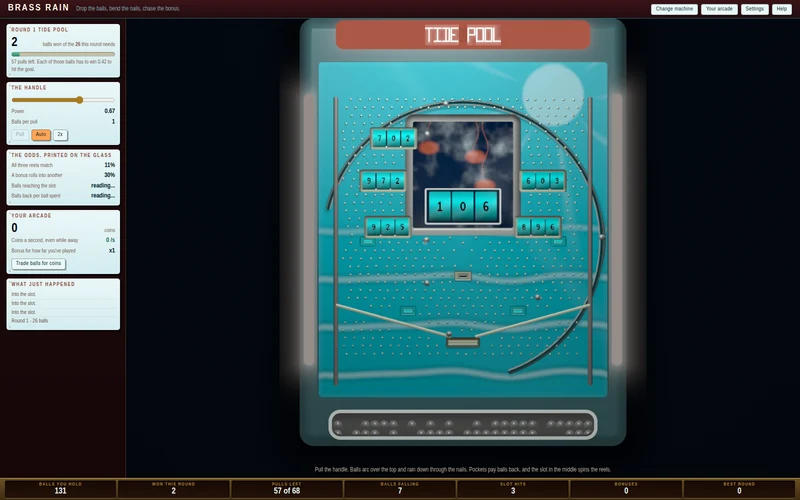
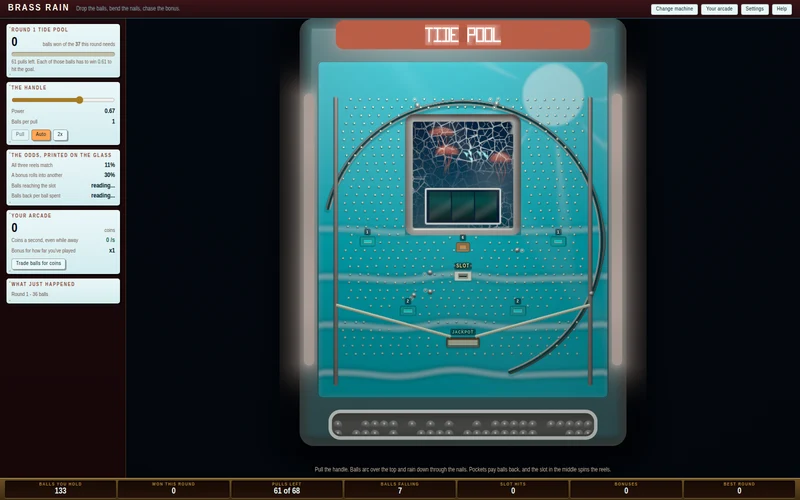
Brass Rain build 18: the row names what each machine sends; a fresh tile

diff --git a/brass-rain/src/ui.js b/brass-rain/src/ui.js
@@ -15,13 +15,13 @@
 // same fit, so a nail is exactly where it looks like it is.
 // ---------------------------------------------------------------------------
 
-import { createGame, VIEW_MACHINE, VIEW_BENCH, VIEW_FLOOR } from './game.js?v=17';
-import { createScene } from './render/scene.js?v=17';
-import { fitBoard, pixelToBoard } from './render/layout.js?v=17';
-import { num, count, duration, mult, pct, fill } from './format.js?v=17';
-import { BULK_STEPS, bulkLabel } from './economy.js?v=17';
-import { nailPos } from './board.js?v=17';
-import { sketchCabinet } from './cabinets.js?v=17';
+import { createGame, VIEW_MACHINE, VIEW_BENCH, VIEW_FLOOR } from './game.js?v=18';
+import { createScene } from './render/scene.js?v=18';
+import { fitBoard, pixelToBoard } from './render/layout.js?v=18';
+import { num, count, duration, mult, pct, fill } from './format.js?v=18';
+import { BULK_STEPS, bulkLabel } from './economy.js?v=18';
+import { nailPos } from './board.js?v=18';
+import { sketchCabinet } from './cabinets.js?v=18';
 
 const SPEEDS = [1, 2, 4];
 
@@ -757,7 +757,8 @@ export async function boot(doc) {
         + '<div class="warn"></div>';
       d.querySelector('h4').textContent = label;
       const doorCount = cab.skin && Number.isFinite(cab.skin.doors) ? cab.skin.doors : 3;
-      d.querySelector('.theme').textContent = (cab.layout ? cab.layout + ' board' : '') + ' - lights ' + doorCount + ' doors';
+      const sends = cab.skin && cab.skin.summon ? ' - sends ' + String(cab.skin.summon).replace(/^A pair of /i, '').replace(/^An? /i, '').toLowerCase() : '';
+      d.querySelector('.theme').textContent = (cab.layout ? cab.layout + ' board' : '') + ' - lights ' + doorCount + ' doors' + sends;
       drawSketch(d.querySelector('.sketch'), sketchCabinet(cfg, cab.seed), cab.skin);
 
       const big = d.querySelector('.big');
@@ -1168,7 +1169,7 @@ const HELP = [
     + 'can be in the machine at once, and clicking one already in takes it back out. Some parts work '
     + 'together, and the card says so when they do.'],
   ['Bending the nails', 'Also at the workbench: drag any nail on the board to the right to bend it. Bending steers where balls fall, and there are only a few bends per round, so the good ones are the nails that feed balls into the slot. The chart at the workbench shows where the last round actually ended up, which is how you tell which nails are worth bending.'],
-  ['Picking a machine', 'There are six machines, and the pockets, the slot and the funnel sit somewhere else on each. Change machine at the top of the screen to see three of them measured for you. The number that matters most is how many balls come back for each ball spent. Picking a machine starts a new game, so what you win on a machine is worth checking before you sit down for hours.'],
+  ['Picking a machine', 'There are six machines, and the pockets, the slot and the funnel sit somewhere else on each. Each lights its own number of doors and sends its own creature across the board. Change machine at the top of the screen to see three of them measured for you. The number that matters most is how many balls come back for each ball spent. Picking a machine starts a new game, so what you win on a machine is worth checking before you sit down for hours.'],
   ['Coins and your arcade', 'Cash your balls in at the counter and they become COINS. Coins buy machines for your arcade. Those machines earn coins every second on their own, including while the page is closed. What they earn is multiplied by how far you\'ve gotten at the handle, so playing well is the best thing you can do for the arcade.'],
   ['Stars and starting over', 'Once the arcade is large enough you can sell all of it and build it again from nothing. Doing that pays STARS. Stars buy permanent upgrades that survive every restart. The arcade rebuilds far faster the second time, and starting over never takes stars away.'],
 ];

diff --git a/brass-rain/src/game.js b/brass-rain/src/game.js
@@ -11,24 +11,24 @@
 // one thing that cannot live anywhere else.
 // ---------------------------------------------------------------------------
 
-import { loadConfig } from '../config.js?v=17';
+import { loadConfig } from '../config.js?v=18';
 import { createRun, stepRun, createOut, startRound, pullHandle, quotaFor, quotaRate,
          matchChance, continueChance, ballsPerPull, logLine, launchesLeft,
          budgetFor, clearBonusFor, pullsLeft, pullsFor, useCabinet,
-         PHASE_PLAY, PHASE_SETTLE, PHASE_SHOP, PHASE_OVER } from './run.js?v=17';
+         PHASE_PLAY, PHASE_SETTLE, PHASE_SHOP, PHASE_OVER } from './run.js?v=18';
 import { createFloor, tickFloor, cashOut, buyMachine, hireAttendant, quote,
          attendantPrice, floorIncome, machineIncome, milestoneMult, nextMilestone,
-         handMult, restoreFloor } from './floor.js?v=17';
-import { createQuality, observe, renderQuality, resetMeasurement, restoreQuality } from './quality.js?v=17';
-import { createBench, buildMods, partnersFor, fire as fireHook, hasHook } from './hooks.js?v=17';
-import { fitMachine, buildFittedBoard, runConfig } from './parts.js?v=17';
-import { nailNear, bendNail, bendCheck, straighten, nailPos } from './board.js?v=17';
-import { rng as makeRng } from './rng.js?v=17';
-import { offerCabinets } from './cabinets.js?v=17';
-import * as Save from './save.js?v=17';
-import { showState } from './render/reach.js?v=17';
-import { skinForCabinet } from './render/themes.js?v=17';
-import { chooseDoor as callDoor } from './events.js?v=17';
+         handMult, restoreFloor } from './floor.js?v=18';
+import { createQuality, observe, renderQuality, resetMeasurement, restoreQuality } from './quality.js?v=18';
+import { createBench, buildMods, partnersFor, fire as fireHook, hasHook } from './hooks.js?v=18';
+import { fitMachine, buildFittedBoard, runConfig } from './parts.js?v=18';
+import { nailNear, bendNail, bendCheck, straighten, nailPos } from './board.js?v=18';
+import { rng as makeRng } from './rng.js?v=18';
+import { offerCabinets } from './cabinets.js?v=18';
+import * as Save from './save.js?v=18';
+import { showState } from './render/reach.js?v=18';
+import { skinForCabinet } from './render/themes.js?v=18';
+import { chooseDoor as callDoor } from './events.js?v=18';
 
 export const VIEW_MACHINE = 'machine';
 export const VIEW_BENCH = 'bench';
@@ -49,8 +49,8 @@ export async function createGame(opts) {
   );
   const storage = safeStorage(options.storage);
 
-  const catalogue = await optional('./fittings.js?v=17');
-  const metaModule = await optional('./meta.js?v=17');
+  const catalogue = await optional('./fittings.js?v=18');
+  const metaModule = await optional('./meta.js?v=18');
   const bench = createBench(catalogue || {});
 
   const game = {

diff --git a/brass-rain/src/render/scene.js b/brass-rain/src/render/scene.js
@@ -22,21 +22,21 @@
 // description of what to draw, and it touches nothing else on the page.
 // ---------------------------------------------------------------------------
 
-import { createGL, program, buffer, vao, target, fittedTarget, bindScreen, FULLSCREEN_VS } from './gl.js?v=17';
-import { createColours } from './colours.js?v=17';
-import { fitBoard, clipTransform, lampPosition, reelRect, screenRect, drumStrip } from './layout.js?v=17';
-import { normaliseQuality, bufferSize, sceneSize, drawnBalls } from './quality.js?v=17';
+import { createGL, program, buffer, vao, target, fittedTarget, bindScreen, FULLSCREEN_VS } from './gl.js?v=18';
+import { createColours } from './colours.js?v=18';
+import { fitBoard, clipTransform, lampPosition, reelRect, screenRect, drumStrip } from './layout.js?v=18';
+import { normaliseQuality, bufferSize, sceneSize, drawnBalls } from './quality.js?v=18';
 import {
   packPins, packPockets, packRails, packFlashes, packReels, packArc, packScreen,
   packEvents, tellHeat, showIntensity, medianPinRadius,
   POCKET_KINDS, POCKET_TONES, FLASH_KINDS, REEL_WINDOWS, EVENT_CAP,
-} from './board-geom.js?v=17';
+} from './board-geom.js?v=18';
 import {
   INSTANCE_VS, RAIL_VS, BALL_VS, GROUND_FS, PIN_FS, BALL_FS, BALL_SHADOW_FS,
   RAIL_FS, POCKET_FS, FLASH_FS, REEL_FS, ARC_FS, SCREEN_FS, EVENT_FS, COMPOSITE_FS,
-} from './shaders.js?v=17';
-import { themeForCabinet, themeIndex, DEFAULT_THEME } from './themes.js?v=17';
-import { encode as encodeName, MAX_LETTERS } from './marquee.js?v=17';
+} from './shaders.js?v=18';
+import { themeForCabinet, themeIndex, DEFAULT_THEME } from './themes.js?v=18';
+import { encode as encodeName, MAX_LETTERS } from './marquee.js?v=18';
 
 // The unit quad every instance is stamped from, as a triangle strip so no
 // index buffer is needed.

diff --git a/brass-rain/src/run.js b/brass-rain/src/run.js
@@ -13,14 +13,14 @@
 // a round can be read, tested and swept without a canvas anywhere near it.
 // ---------------------------------------------------------------------------
 
-import { rng as makeRng } from './rng.js?v=17';
-import { createBoard, pocket } from './board.js?v=17';
-import { createBalls, launch, clearBalls, stepPhysics } from './physics.js?v=17';
-import { fire, hasHook } from './hooks.js?v=17';
+import { rng as makeRng } from './rng.js?v=18';
+import { createBoard, pocket } from './board.js?v=18';
+import { createBalls, launch, clearBalls, stepPhysics } from './physics.js?v=18';
+import { fire, hasHook } from './hooks.js?v=18';
 import {
   createEvents, resetEvents, eventsOnLaunch, eventsOnBallHits, eventsOnResolve,
   eventsOnTake, eventsOnReels, eventsOnWideShut, eventsPayMult, isEventPocket,
-} from './events.js?v=17';
+} from './events.js?v=18';
 
 export const PHASE_PLAY = 'play';
 export const PHASE_SETTLE = 'settle';

diff --git a/brass-rain/src/cabinets.js b/brass-rain/src/cabinets.js
@@ -18,10 +18,10 @@
 // that proves it. Reading a board is the game.
 // ---------------------------------------------------------------------------
 
-import { createBoard, nailPos, layoutFor } from './board.js?v=17';
-import { createBalls, launch, stepPhysics } from './physics.js?v=17';
-import { rng as makeRng } from './rng.js?v=17';
-import { skinForCabinet } from './render/themes.js?v=17';
+import { createBoard, nailPos, layoutFor } from './board.js?v=18';
+import { createBalls, launch, stepPhysics } from './physics.js?v=18';
+import { rng as makeRng } from './rng.js?v=18';
+import { skinForCabinet } from './render/themes.js?v=18';
 
 /** How hard each candidate is tried, and at how many handle settings. */
 // Enough balls that a good board is not reported by luck. At forty a single

diff --git a/brass-rain/src/save.js b/brass-rain/src/save.js
@@ -18,10 +18,10 @@
 //   another program wrote, and none of those may stop the game from starting.
 // ---------------------------------------------------------------------------
 
-import { serializeBends, restoreBends } from './board.js?v=17';
-import { serializeBalls, restoreBalls } from './physics.js?v=17';
-import { serializeFloor, restoreFloor } from './floor.js?v=17';
-import { serializeQuality } from './quality.js?v=17';
+import { serializeBends, restoreBends } from './board.js?v=18';
+import { serializeBalls, restoreBalls } from './physics.js?v=18';
+import { serializeFloor, restoreFloor } from './floor.js?v=18';
+import { serializeQuality } from './quality.js?v=18';
 
 export function saveKey(cfg) { return cfg.identity.storagePrefix + ':save'; }
 

diff --git a/brass-rain/src/parts.js b/brass-rain/src/parts.js
@@ -28,9 +28,9 @@
 // and it keeps every promise honest.
 // ---------------------------------------------------------------------------
 
-import { createBoard, addPin, removePinsNear, rebuild, nailPos, POCKET_PAY, POCKET_GATE } from './board.js?v=17';
-import { baseMods } from './run.js?v=17';
-import { rng as makeRng } from './rng.js?v=17';
+import { createBoard, addPin, removePinsNear, rebuild, nailPos, POCKET_PAY, POCKET_GATE } from './board.js?v=18';
+import { baseMods } from './run.js?v=18';
+import { rng as makeRng } from './rng.js?v=18';
 
 // Board units of mouth width per point of probability, measured.
 const GATE_UNITS_PER_POINT = 1 / 0.0042;

diff --git a/brass-rain/src/render/colours.js b/brass-rain/src/render/colours.js
@@ -21,8 +21,8 @@
 // turned up, not a different lamp.
 // ---------------------------------------------------------------------------
 
-import { oklch, hexToRgb, srgbToLinear, hexToOklch, clampOklch } from '../palette.js?v=17';
-import { resolveTheme, themeForCabinet, DEFAULT_THEME } from './themes.js?v=17';
+import { oklch, hexToRgb, srgbToLinear, hexToOklch, clampOklch } from '../palette.js?v=18';
+import { resolveTheme, themeForCabinet, DEFAULT_THEME } from './themes.js?v=18';
 
 // What a machine is made of when nobody has said. This is the default skin
 // written out flat, so this module still produces a face with no skin table

diff --git a/brass-rain/src/render/shaders.js b/brass-rain/src/render/shaders.js
@@ -30,8 +30,8 @@
 // positions arrive as five separate arrays that go to the GPU untouched.
 // ---------------------------------------------------------------------------
 
-import { digitGlsl } from './digits.js?v=17';
-import { marqueeGlsl, MAX_LETTERS } from './marquee.js?v=17';
+import { digitGlsl } from './digits.js?v=18';
+import { marqueeGlsl, MAX_LETTERS } from './marquee.js?v=18';
 
 // ---- shared ---------------------------------------------------------------
 

diff --git a/brass-rain/src/events.js b/brass-rain/src/events.js
@@ -119,8 +119,8 @@
 // `run.events`. Nothing here draws anything.
 // ---------------------------------------------------------------------------
 
-import { POCKET_PAY } from './board.js?v=17';
-import { summonFor, doorsFor } from './render/themes.js?v=17';
+import { POCKET_PAY } from './board.js?v=18';
+import { summonFor, doorsFor } from './render/themes.js?v=18';
 
 /** The per-run event state. Never null on a run. */
 export function createEvents() {

diff --git a/brass-rain/index.html b/brass-rain/index.html
@@ -483,7 +483,7 @@
 </script>
 <!-- plays:end -->
 <!-- build-watch:start -->
-<meta name="build" content="4a63aca7aa7d">
+<meta name="build" content="c1e515b5b3b0">
 <script>
 (function () {
   var meta = document.querySelector('meta[name="build"]');
@@ -716,7 +716,7 @@
 </div>
 
 <script type="module">
-  import { boot } from './src/ui.js?v=17';
+  import { boot } from './src/ui.js?v=18';
   boot(document);
 </script>
 </body>

diff --git a/brass-rain/src/floor.js b/brass-rain/src/floor.js
@@ -19,7 +19,7 @@
 // for by the played half rather than replacing it.
 // ---------------------------------------------------------------------------
 
-import { priceAt, priceOf, maxAffordable, bulkBuy } from './economy.js?v=17';
+import { priceAt, priceOf, maxAffordable, bulkBuy } from './economy.js?v=18';
 
 /** The floor as it stands at the start of everything. */
 export function createFloor(cfg) {
